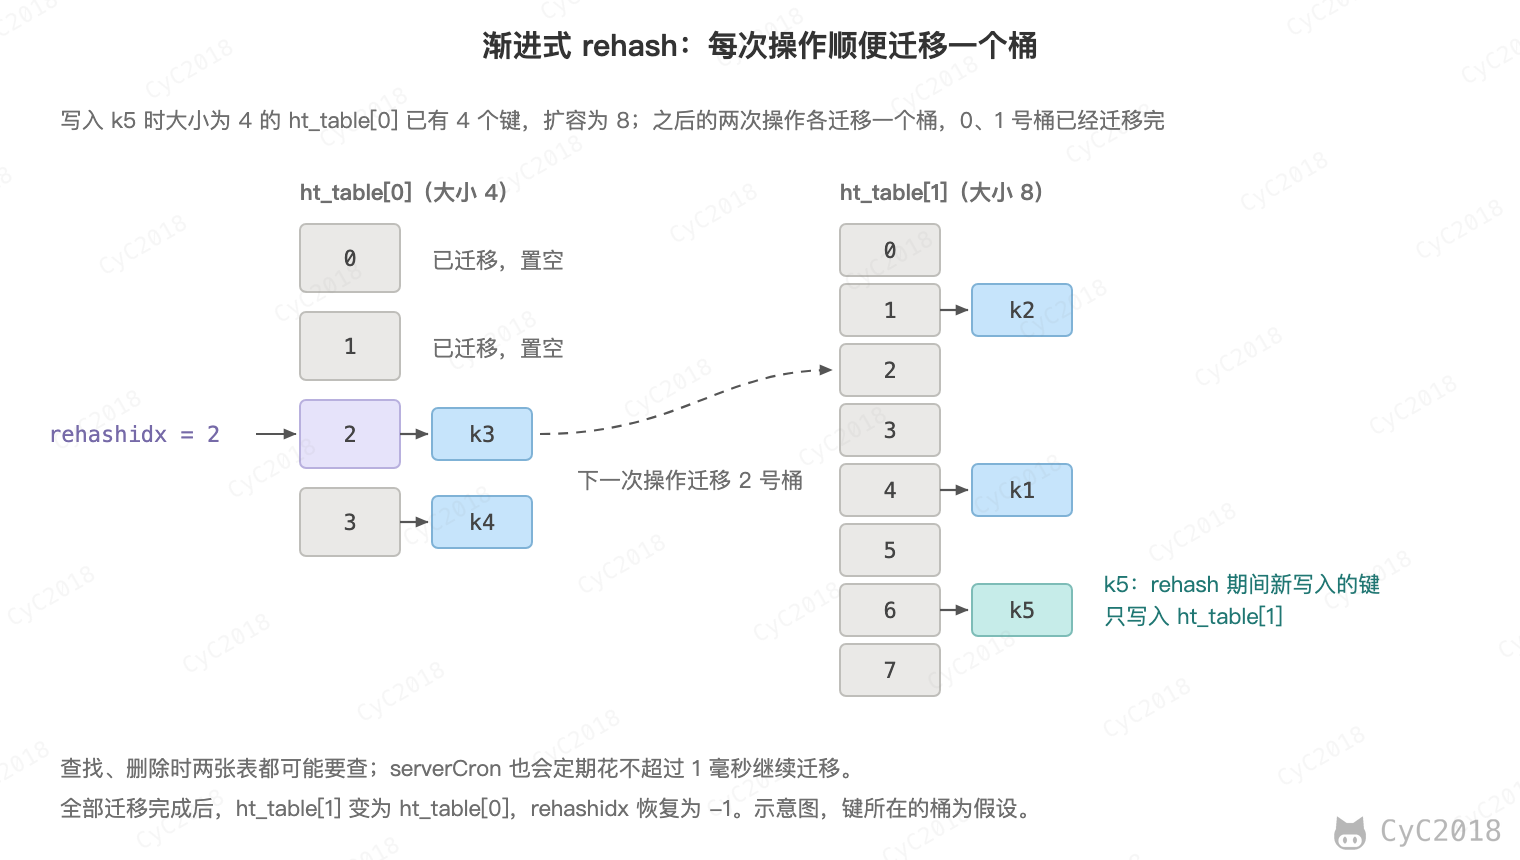
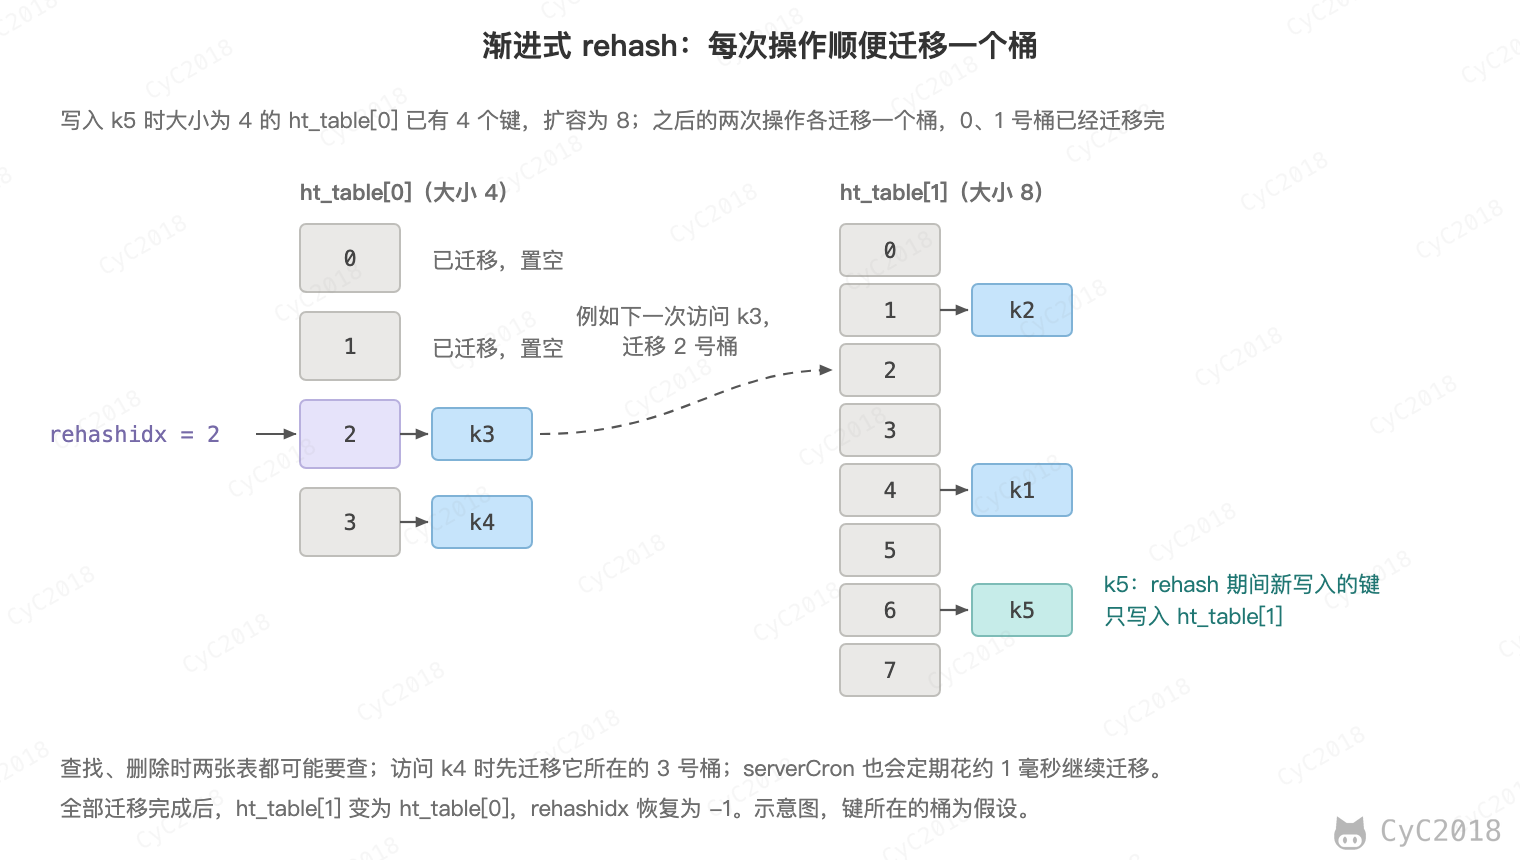
Update Redis - 进阶.md
重新绘制 redis-rehash 配图，补充字典缩容条件与渐进式 rehash 迁移细节，对时间事件描述进行文字校对。

Changed region(s): [[0.2474, 0.8767, 0.773, 0.907], [0.3711, 0.3628, 0.4947, 0.4233], [0.3711, 0.5442, 0.5257, 0.5744]]

diff --git a/notes/Redis - 进阶.md b/notes/Redis - 进阶.md
@@ -28,8 +28,8 @@
 
 - 字典中有两张哈希表 ht_table[0] 和 ht_table[1]，平时只用 ht_table[0]；
 - 键的数量达到桶数时扩容，ht_table[1] 的大小为不小于键数加 1 的 2 的幂；有子进程在执行 BGSAVE 或 AOF 重写时，为了减少写时复制的内存页，要达到桶数的 4 倍才扩容；
-- 键的数量不超过桶数的 1/8 时缩容，过程相同；
-- rehashidx 记录迁移到了哪个桶，之后每次对这个字典增删改查，都顺便把一个桶中的所有键迁移到 ht_table[1]，serverCron 也会定期花不超过 1 毫秒继续迁移；
+- 键的数量不超过桶数的 1/8 时缩容，有子进程时要降到 1/32 才缩容，迁移过程与扩容相同；
+- rehashidx 记录迁移到了哪个桶，之后每次对这个字典增删改查，都顺便把一个桶中的所有键迁移到 ht_table[1]：访问的键所在的旧桶还没迁移时迁移这个桶，否则迁移 rehashidx 指向的桶；serverCron 也会定期花约 1 毫秒继续迁移；
 - 迁移期间新写入的键只放入 ht_table[1]，查找和删除时两张表都可能要查；
 - 全部迁移完成后，ht_table[1] 变为 ht_table[0]，rehashidx 恢复为 -1。
 
@@ -55,8 +55,8 @@ Redis 基于 Reactor 模式开发了自己的网络事件处理器，使用 I/O 
 
 时间事件又分为：
 
-- 定时事件：是让一段程序在指定的时间之内执行一次；
-- 周期性事件：是让一段程序每隔指定时间就执行一次。
+- 定时事件：让一段程序在指定的时间执行一次；
+- 周期性事件：让一段程序每隔指定时间就执行一次。
 
 Redis 将所有时间事件都放在一个无序链表中，通过遍历整个链表查找出已到达的时间事件，并调用相应的事件处理器。
 
